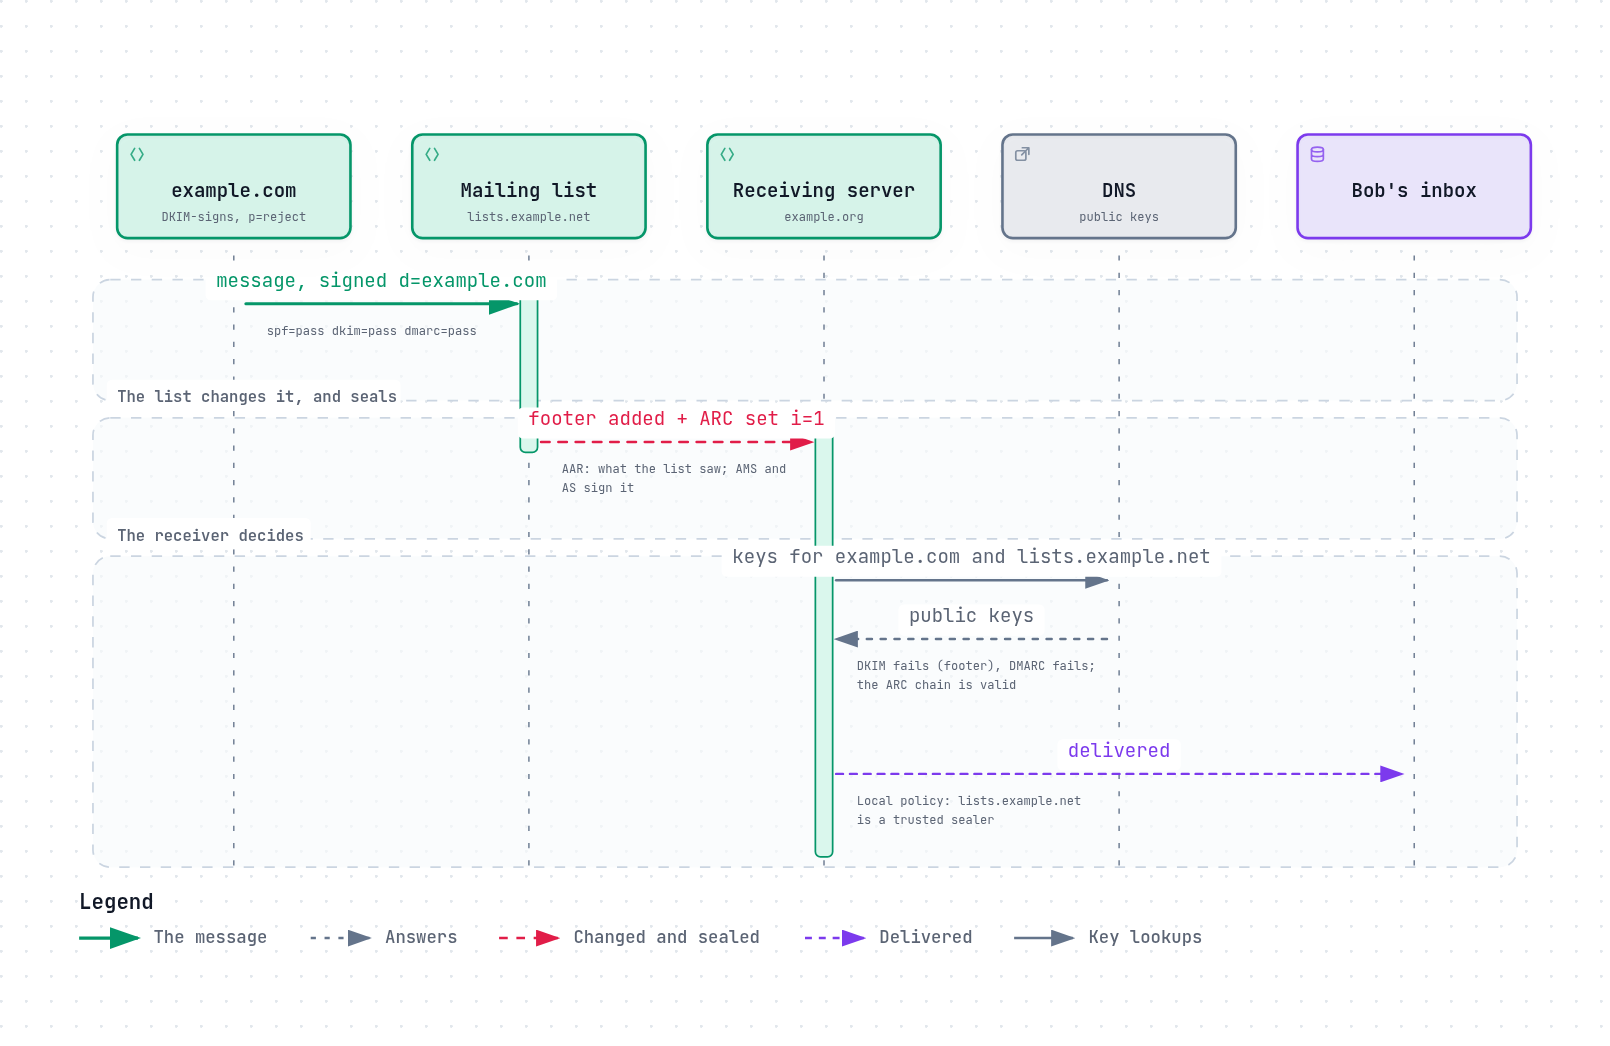
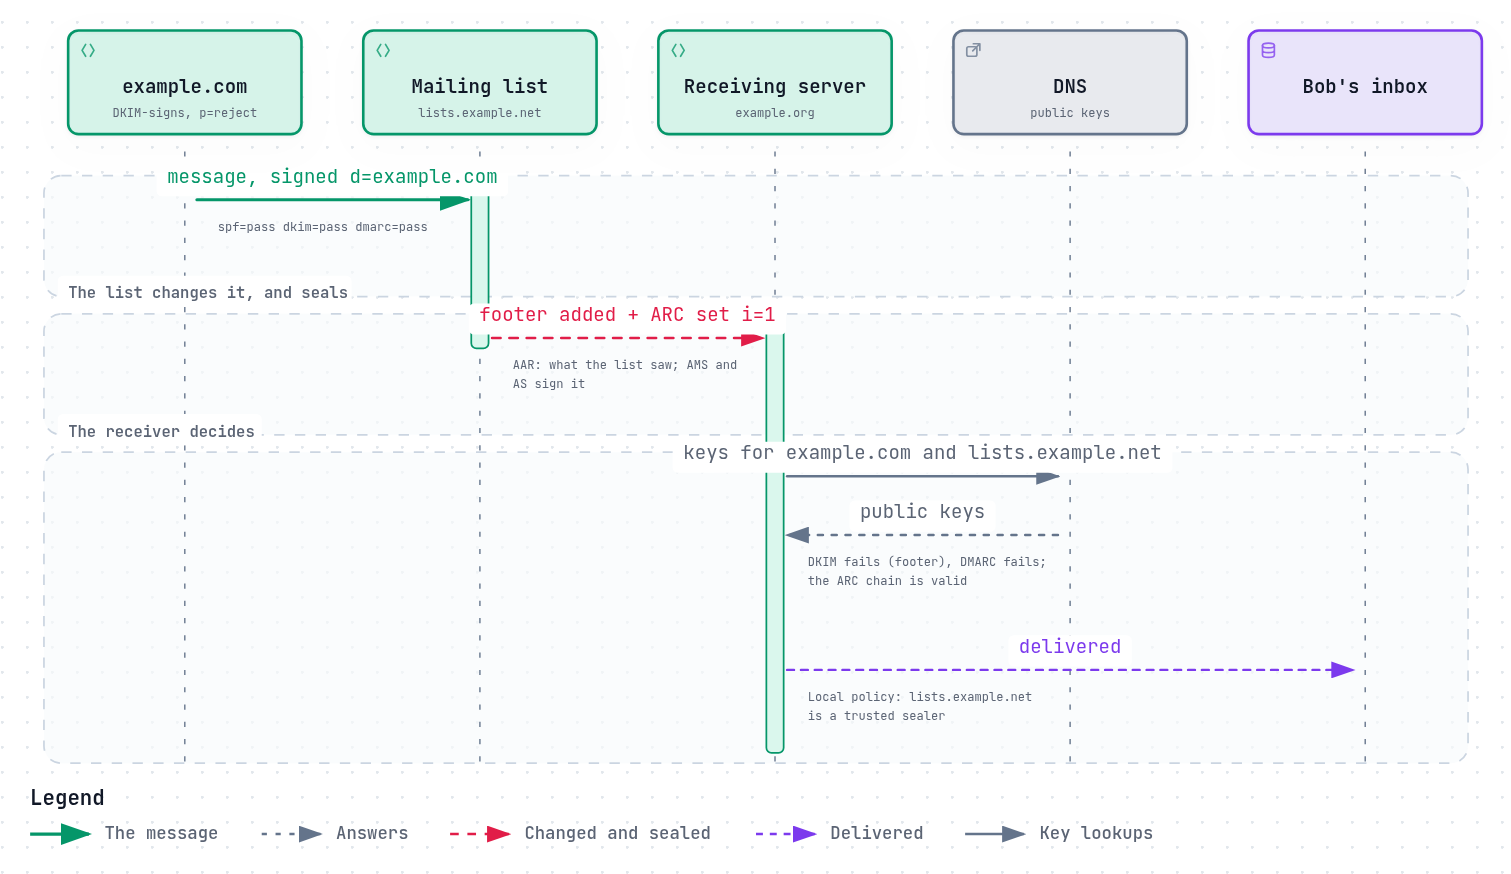
docs(email-explained): PNGs cropped to the drawing, and two fixes
png.mjs now crops each image to the drawing and its legend, with an
even margin, instead of the whole canvas, and waits for Chrome to let go
of its profile before deleting it. Two summaries with colons are quoted,
and the IMAP example's literal size is right.

diff --git a/docs/email-explained/how-email-works/bounces-queues-retries.md b/docs/email-explained/how-email-works/bounces-queues-retries.md
@@ -1,7 +1,7 @@
 ---
 title: Bounces, queues and retries
 part: How email works
-summary: What a mail server does when delivery fails: how long it keeps trying, how it tells the sender, and how bounces themselves become abuse.
+summary: "What a mail server does when delivery fails: how long it keeps trying, how it tells the sender, and how bounces themselves become abuse."
 diagram: ../diagrams/queue.lifecycle.json
 ---
 

diff --git a/docs/email-explained/how-email-works/the-message.md b/docs/email-explained/how-email-works/the-message.md
@@ -1,7 +1,7 @@
 ---
 title: The message itself
 part: How email works
-summary: What an email is made of: the envelope that routes it, the header the reader sees, and the MIME parts that carry text, HTML and attachments.
+summary: "What an email is made of: the envelope that routes it, the header the reader sees, and the MIME parts that carry text, HTML and attachments."
 diagram: ../diagrams/message.tree.json
 ---
 

diff --git a/docs/email-explained/how-email-works/reading-mail.md b/docs/email-explained/how-email-works/reading-mail.md
@@ -51,9 +51,10 @@ C: a2 SELECT INBOX
 S: * 3 EXISTS
 S: a2 OK [READ-WRITE] Selected
 C: a3 FETCH 3 (FLAGS BODY.PEEK[HEADER.FIELDS (FROM SUBJECT)])
-S: * 3 FETCH (FLAGS () BODY[HEADER.FIELDS (FROM SUBJECT)] {58}
+S: * 3 FETCH (FLAGS () BODY[HEADER.FIELDS (FROM SUBJECT)] {52}
 S: From: Alice <alice@example.com>
 S: Subject: Lunch?
+S:
 S: )
 S: a3 OK Fetch completed
 ```
